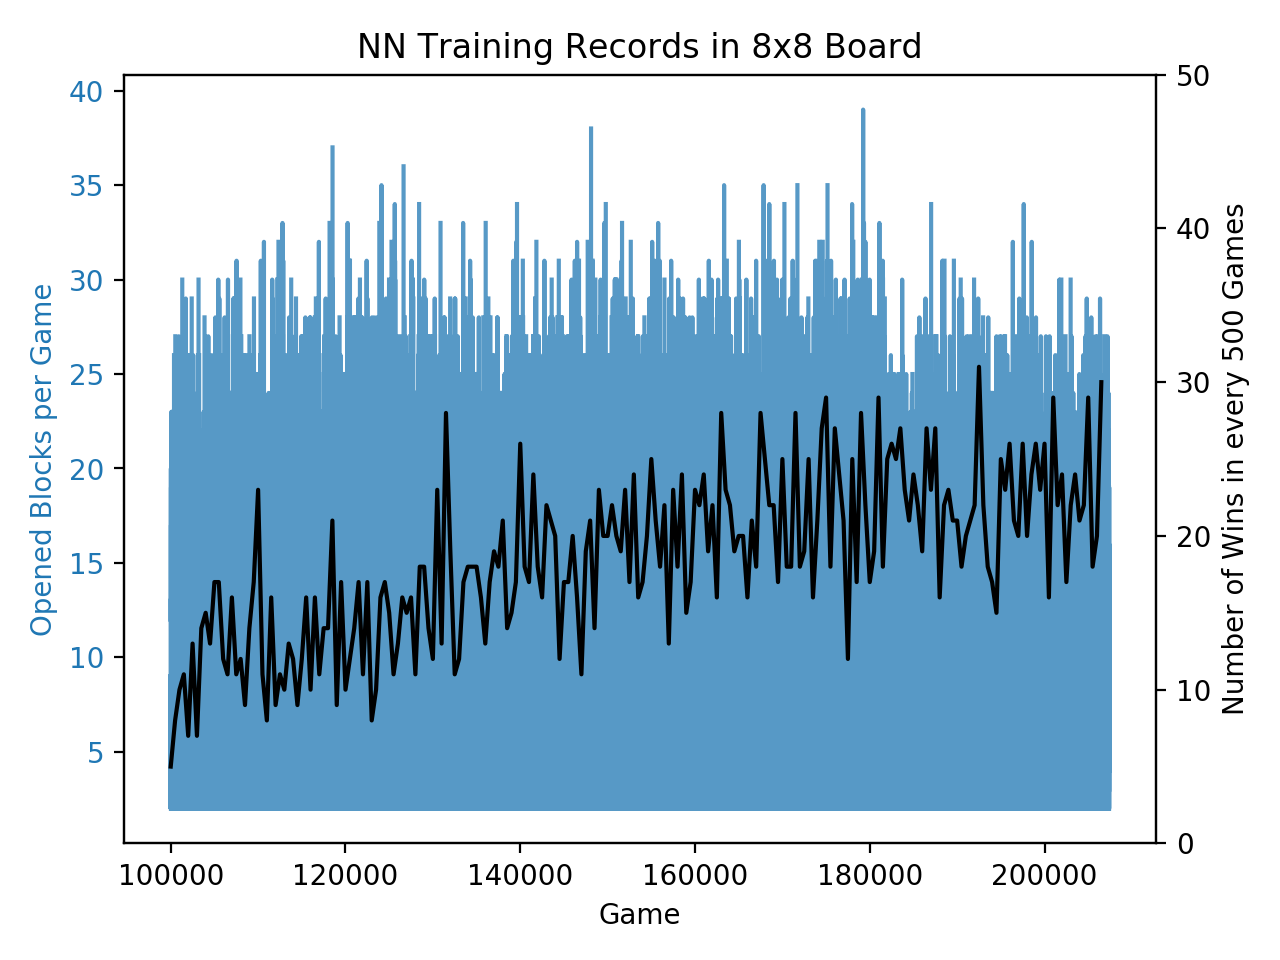
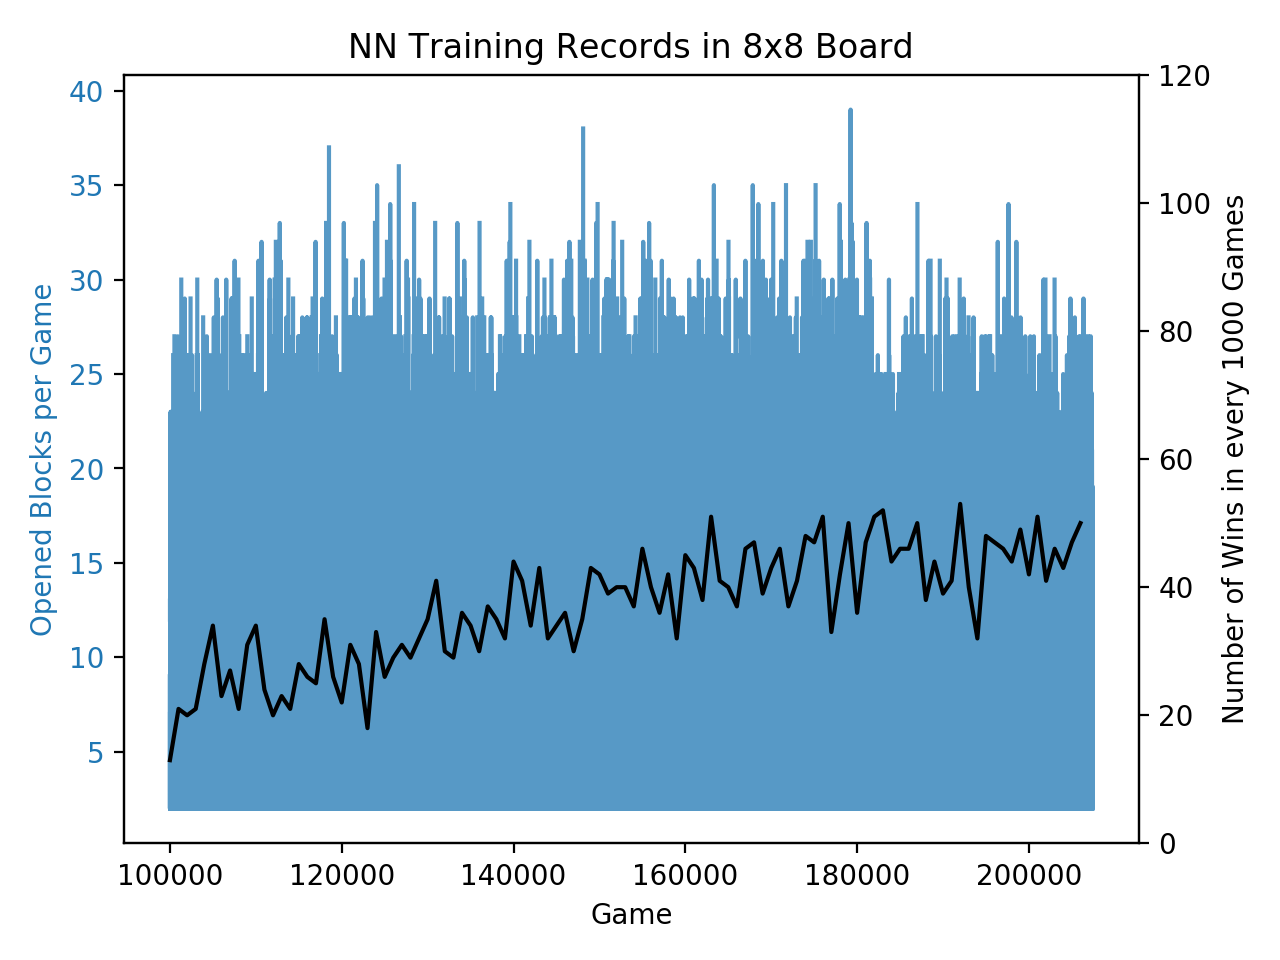
Modify minor description.

diff --git a/drawChart(100000up).py b/drawChart(100000up).py
@@ -2,7 +2,7 @@ import numpy as np
 import matplotlib.pyplot as plt
 import more_itertools as mit
 
-step = 500
+step = 1000
 
 file = str(input()).replace(' ', '')
 opened_counter = np.load(file)
@@ -48,7 +48,7 @@ color = 'black'
 ax2.set_ylabel('Number of Wins in every {0} Games'.format(step), color=color)
 ax2.plot(range(100000, len(opened_counter[100000:-step]) + 100000, step), win_counter_avg, color=color, alpha=1)
 ax2.tick_params(axis='y', labelcolor=color)
-ax2.set_ylim(0, 50)
+ax2.set_ylim(0, 120)
 
 fig.tight_layout()
 plt.show()

diff --git a/README.md b/README.md
@@ -26,6 +26,8 @@ Run the command below to start training the neural network.
 python3.7 trainAI.py
 ````
 
+If the training slows down the computer, try decrease the loop times in `trainAI.py` and use `sh run.sh` to loop `trainAI.py`.
+
 <img src="https://github.com/andywu0913/minesweeper-neural-network-ai/blob/master/demo_training.gif" width="600px">
 
 ### Testing
@@ -50,26 +52,7 @@ python3.7 solveAI.py
 - Pillow 5.4.1
 - mss 4.0.2
 
-## Block Status Code
-
-- `1`  &nbsp;&nbsp;Num 1 Blue Block
-- `2`  &nbsp;&nbsp;Num 2 Green Block
-- `3`  &nbsp;&nbsp;Num 3 Red Block
-- `4`  &nbsp;&nbsp;Num 4 Dark Blue Block
-- `5`  &nbsp;&nbsp;Num 5 Dark Red Block
-- `6`  &nbsp;&nbsp;Num 6 Cyan Block
-- `7`  &nbsp;&nbsp;Num 7 Black Block
-- `8`  &nbsp;&nbsp;Num 8 Gray Block
-- `9`  &nbsp;&nbsp;Opened Block
-- `0`  &nbsp;&nbsp;Undetermined Block
-- `-1`  &nbsp;Flag
-- `-2`  &nbsp;Current Opened Bomb
-- `-3`  &nbsp;Other Opened Bomb
-- `-4`  &nbsp;Misplaced Flag
-- `-5`  &nbsp;Possibly is in the win page with yellow background
-- `-99`  Cannot determine
-
-## Training Progress
+## Training Records
 
 ### Game Generations 0 to 100,000
 
@@ -79,6 +62,6 @@ In the first 100,000 times of our neural network plays the game, we set the size
 
 ### Game Generations 100,000 above
 
-After 100,000 times of games played, we set the size of the game board to 8x8 with 10 bombs to let our neural network start learning the blocks near the border. Until May 7, the day before our project presentation, the neural network has gone through 207,421 generations of playing.
+After 100,000 times of games played, we set the size of the game board to 8x8 with 10 bombs to let our neural network start learning the blocks near the border. Until May 7 2019, the day before our project presentation, the neural network has gone through 207,421 generations of playing and has approximately 5% of chances in average to complete a game.
 
 <img src="https://github.com/andywu0913/minesweeper-neural-network-ai/blob/master/nn_trained_model/stat.png" width="600px">
